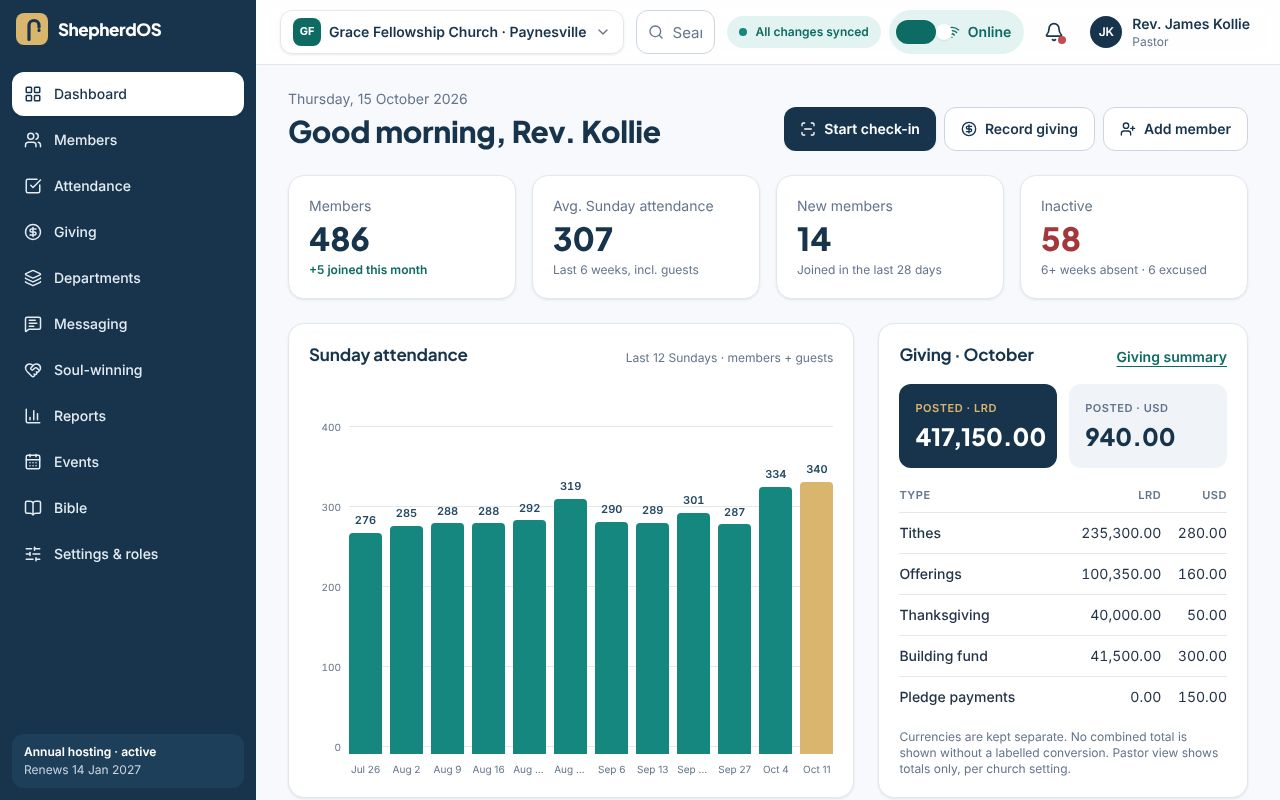
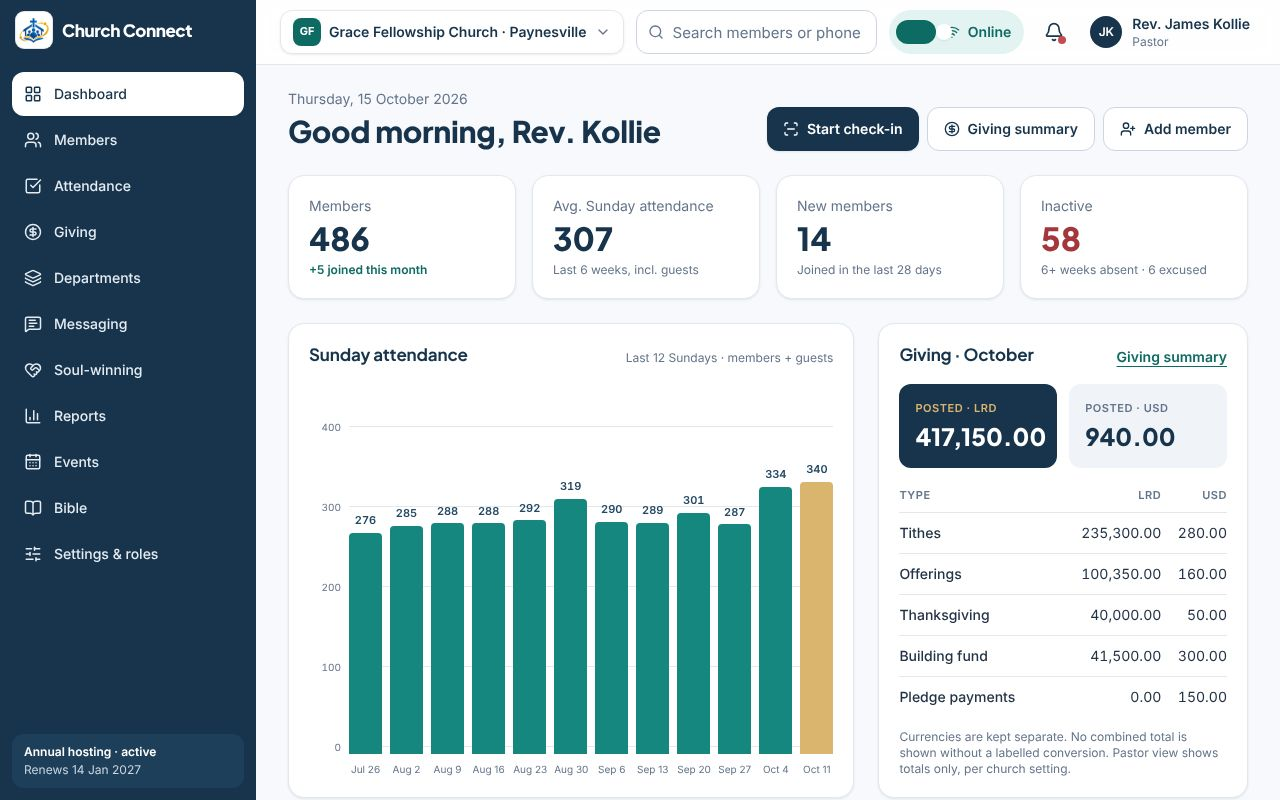
Rebrand to Church Connect and remove demo disclaimers
- New Church Connect logo: mark cut from the supplied artwork with a
  transparent background, shown on a white tile; wordmark "Church Connect"
- Favicon, PWA icons and landing screenshot regenerated from the logo
- Product name updated in titles, metadata and copy
- Removed "fictional data / nothing here is real" statements; the Demo
  badge in the demo bar remains
- Sidebar logo visibility no longer depends on overriding the mark's
  display class

Claude-Session: https://claude.ai/code/session_011i7rtB8z4FdnPw6qqhR6cd

Changed region(s): [[0.5938, 0.125, 0.8438, 0.1875], [0.5625, 0.0, 0.6875, 0.0625], [0.0, 0.0, 0.1562, 0.0625]]

diff --git a/src/components/brand/Logo.tsx b/src/components/brand/Logo.tsx
@@ -1,27 +1,32 @@
 import { cn } from "@/lib/cn";
 
 /**
- * PLACEHOLDER LOGO. This is the only place the brand mark is drawn.
- * To swap in the real logo: replace the <svg> in `LogoMark` (keep the
- * square viewBox), adjust the wordmark if needed, then run
- * `npm run icons` to regenerate the favicon and PWA icons. See README.
+ * Church Connect brand. This is the only place the logo is drawn.
+ * The mark image lives in public/brand/ (cut from the supplied logo with a
+ * transparent background). To change the logo: replace those PNGs, adjust
+ * the wordmark below if needed, then run `npm run icons` to regenerate the
+ * favicon and app icons. See README.
  */
 
-export function LogoMark({ className, title }: { className?: string; title?: string }) {
+export const BRAND_NAME = "Church Connect";
+
+export function LogoMark({ className, title, size = "md" }: { className?: string; title?: string; size?: "md" | "lg" }) {
   return (
-    <svg viewBox="0 0 32 32" className={cn("shrink-0", className)} role={title ? "img" : undefined} aria-hidden={title ? undefined : true} aria-label={title}>
-      <rect width="32" height="32" rx="8" className="fill-gold" />
-      {/* Shepherd's crook */}
-      <path
-        d="M13 26.5V12.5a5 5 0 0 1 10 0v1.75"
-        fill="none"
-        className="stroke-navy"
-        strokeWidth="3.2"
-        strokeLinecap="round"
-        strokeLinejoin="round"
+    <span
+      className={cn("inline-flex shrink-0 items-center justify-center overflow-hidden rounded-lg bg-white ring-1 ring-line", className)}
+      role={title ? "img" : undefined}
+      aria-label={title}
+      aria-hidden={title ? undefined : true}
+    >
+      {/* eslint-disable-next-line @next/next/no-img-element */}
+      <img
+        src={size === "lg" ? "/brand/church-connect-mark.png" : "/brand/church-connect-mark-160.png"}
+        alt=""
+        className="h-[86%] w-[86%] object-contain"
+        width={160}
+        height={160}
       />
-      <circle cx="23" cy="17.4" r="1.6" className="fill-navy" />
-    </svg>
+    </span>
   );
 }
 
@@ -39,14 +44,12 @@ export function Logo({
   markClassName?: string;
   subtitle?: string;
 }) {
-  if (variant === "mark") return <LogoMark className={cn("size-8", markClassName, className)} title="ShepherdOS" />;
+  if (variant === "mark") return <LogoMark className={cn("size-9", markClassName, className)} title={BRAND_NAME} />;
   return (
     <span className={cn("inline-flex items-center gap-2.5", className)}>
-      <LogoMark className={cn("size-8", markClassName)} />
+      <LogoMark className={cn("size-9", markClassName)} />
       <span className="flex flex-col leading-none">
-        <span className={cn("font-heading text-[17px] font-extrabold tracking-tight", tone === "onDark" ? "text-white" : "text-navy")}>
-          ShepherdOS
-        </span>
+        <span className={cn("font-heading text-[17px] font-extrabold tracking-tight", tone === "onDark" ? "text-white" : "text-navy")}>{BRAND_NAME}</span>
         {subtitle && <span className={cn("mt-1 text-[11px] font-medium", tone === "onDark" ? "text-navy-200" : "text-muted")}>{subtitle}</span>}
       </span>
     </span>

diff --git a/src/app/page.tsx b/src/app/page.tsx
@@ -1,11 +1,11 @@
 import type { Metadata } from "next";
 import Link from "next/link";
-import { ArrowRight, Building2, Coins, MessageSquareText, ShieldCheck, WifiOff } from "lucide-react";
+import { ArrowRight, Building2, Coins, MessageSquareText, WifiOff } from "lucide-react";
 import { Logo } from "@/components/brand/Logo";
 import { ButtonLink } from "@/components/ui/Button";
 
 export const metadata: Metadata = {
-  title: { absolute: "ShepherdOS demo: church management for Liberian churches" },
+  title: { absolute: "Church Connect: church management for Liberian churches" },
 };
 
 const POINTS = [
@@ -59,12 +59,6 @@ export default function Landing() {
                 Start the demo
               </ButtonLink>
             </div>
-            <p className="mt-6 flex max-w-md items-start gap-2.5 rounded-xl border border-line bg-white px-4 py-3 text-sm text-ink">
-              <ShieldCheck className="mt-0.5 size-4 shrink-0 text-teal-ink" aria-hidden />
-              <span>
-                <span className="font-semibold text-navy">Demo with fictional data.</span> Nothing you do here is real or shared.
-              </span>
-            </p>
           </div>
           <div className="relative">
             <div className="overflow-hidden rounded-2xl border border-line bg-white shadow-overlay">
@@ -72,7 +66,7 @@ export default function Landing() {
               {/* eslint-disable-next-line @next/next/no-img-element */}
               <img
                 src="/images/dashboard-preview.jpg"
-                alt="ShepherdOS church dashboard showing members, Sunday attendance for the last 12 weeks, and October giving in LRD and USD"
+                alt="Church Connect dashboard showing members, Sunday attendance for the last 12 weeks, and October giving in LRD and USD"
                 width={1280}
                 height={800}
                 fetchPriority="high"
@@ -113,7 +107,7 @@ export default function Landing() {
                 Explore it as a pastor, secretary, treasurer, department head or ComNet operator
               </h2>
               <p className="mt-2 max-w-2xl text-ink">
-                Each role sees a different slice of the same church. Two fictional churches show that their data never mixes.
+                Each role sees a different slice of the same church. Two sample churches show that their data never mixes.
               </p>
             </div>
             <ButtonLink href="/demo/" size="lg" className="shrink-0">
@@ -126,7 +120,7 @@ export default function Landing() {
       <footer className="mx-auto flex max-w-6xl flex-col gap-2 px-4 py-8 text-sm text-muted sm:flex-row sm:justify-between sm:px-6">
         <p>Prepared for EduBridge Technologies and ComNet IT Solutions.</p>
         <p>
-          ShepherdOS is a working name. <Link href="/demo/" className="font-semibold text-teal-ink underline underline-offset-4">Open the demo</Link>
+          <Link href="/demo/" className="font-semibold text-teal-ink underline underline-offset-4">Open the demo</Link>
         </p>
       </footer>
     </div>

diff --git a/src/app/brand-preview/page.tsx b/src/app/brand-preview/page.tsx
@@ -6,13 +6,13 @@ export const metadata: Metadata = { title: "Brand preview", robots: { index: fal
 
 export default function BrandPreview() {
   return (
-    <div className="flex flex-wrap gap-8 bg-white p-8">
+    <div className="flex flex-wrap gap-8 bg-cloud p-8">
       <div id="icon-square" className="size-[512px]">
-        <LogoMark className="size-full" />
+        <LogoMark size="lg" className="size-full rounded-[96px] ring-0" />
       </div>
-      {/* Maskable icon: mark inside the 80% safe zone on a navy field. */}
-      <div id="icon-maskable" className="flex size-[512px] items-center justify-center bg-navy">
-        <LogoMark className="size-[340px]" />
+      {/* Maskable icon: mark inside the 80% safe zone on a white field. */}
+      <div id="icon-maskable" className="flex size-[512px] items-center justify-center bg-white">
+        <LogoMark size="lg" className="size-[380px] rounded-none ring-0" />
       </div>
     </div>
   );

diff --git a/src/app/demo/page.tsx b/src/app/demo/page.tsx
@@ -10,7 +10,7 @@ export default function DemoSignIn() {
   return (
     <div className="min-h-dvh bg-cloud">
       <header className="mx-auto flex h-16 max-w-5xl items-center justify-between px-4 sm:px-6">
-        <Link href="/" aria-label="ShepherdOS demo home">
+        <Link href="/" aria-label="Church Connect home">
           <Logo />
         </Link>
         <Link href="/" className="inline-flex min-h-11 items-center gap-1.5 text-sm font-semibold text-navy hover:underline">
@@ -27,7 +27,7 @@ export default function DemoSignIn() {
         </div>
         <p className="mt-8 flex items-start gap-2.5 text-sm text-muted">
           <ShieldCheck className="mt-0.5 size-4 shrink-0 text-teal-ink" aria-hidden />
-          Demo with fictional data. Nothing you do here is real or shared. Your changes stay in this browser until you reset them.
+          Your changes stay in this browser until you reset them.
         </p>
       </main>
     </div>

diff --git a/src/components/shell/Sidebar.tsx b/src/components/shell/Sidebar.tsx
@@ -38,9 +38,13 @@ export function Sidebar() {
         )}
       >
         <div className={cn("flex h-16 items-center px-4", !expanded && "max-lg:justify-center max-lg:px-0")}>
-          <Link href={churchHref(church.slug, "")} aria-label="ShepherdOS dashboard">
-            <Logo tone="onDark" className={cn(!expanded && "max-lg:hidden")} />
-            <Logo variant="mark" className={cn("hidden", !expanded && "max-lg:block")} />
+          <Link href={churchHref(church.slug, "")} aria-label="Church Connect dashboard">
+            <span className={cn("block", !expanded && "max-lg:hidden")}>
+              <Logo tone="onDark" />
+            </span>
+            <span className={cn("hidden", !expanded && "max-lg:block")}>
+              <Logo variant="mark" />
+            </span>
           </Link>
         </div>
         <nav className="flex-1 overflow-y-auto px-3 py-2">

diff --git a/src/app/layout.tsx b/src/app/layout.tsx
@@ -11,10 +11,10 @@ const jakarta = Plus_Jakarta_Sans({
 });
 
 export const metadata: Metadata = {
-  title: { default: "ShepherdOS demo", template: "%s · ShepherdOS demo" },
+  title: { default: "Church Connect demo", template: "%s · Church Connect" },
   description:
-    "Interactive demo of ShepherdOS, church management for Liberian churches: members, Sunday check-in that works offline, LRD and USD giving, and SMS.",
-  applicationName: "ShepherdOS",
+    "Interactive demo of Church Connect, church management for Liberian churches: members, Sunday check-in that works offline, LRD and USD giving, and SMS.",
+  applicationName: "Church Connect",
   icons: {
     icon: [
       { url: "/icons/favicon-32.png", sizes: "32x32", type: "image/png" },

diff --git a/src/lib/status.ts b/src/lib/status.ts
@@ -47,7 +47,7 @@ export function deriveStatus(
     return { status: "new", detail: `Joined ${joinedDays === 0 ? "today" : `${joinedDays}d ago`}`, last_attended: lastAttended };
   }
   const windowDays = settings.inactive_weeks * 7;
-  // Imported members have no attendance history in ShepherdOS yet. Until they
+  // Imported members have no attendance history in Church Connect yet. Until they
   // have been in the system for a full window, they are not called inactive.
   if (member.imported_at && (!lastAttended || lastAttended < member.imported_at.slice(0, 10))) {
     const sinceImport = differenceInCalendarDays(now, parseISO(member.imported_at));

diff --git a/src/components/shell/AppShell.tsx b/src/components/shell/AppShell.tsx
@@ -61,7 +61,7 @@ function HydratedShell({ slug, children }: { slug: string; children: ReactNode }
           <Logo />
           <h1 className="mt-8 text-3xl font-bold">Choose a role to continue</h1>
           <p className="mt-2 max-w-xl text-muted">
-            This link opens the ShepherdOS demo. Pick who you want to be; you can switch at any time from the bar at the top.
+            This link opens the Church Connect demo. Pick who you want to be; you can switch at any time from the bar at the top.
           </p>
           <div className="mt-8">
             <RolePicker churchSlug={slug} />

diff --git a/src/components/shell/DemoBar.tsx b/src/components/shell/DemoBar.tsx
@@ -46,7 +46,6 @@ export function DemoBar({ churchSlug }: { churchSlug: string | null }) {
     <>
       <div className="sticky top-0 z-30 flex h-11 items-center gap-2 bg-navy-950 px-2 text-sm text-white sm:px-4">
         <span className="hidden rounded-md bg-gold px-2 py-0.5 text-xs font-bold text-navy sm:inline">Demo</span>
-        <span className="hidden text-navy-200 lg:inline">Fictional data. Nothing here is real or shared.</span>
         <Popover
           label="Switch demo role"
           className="min-w-0 lg:ml-4"

diff --git a/src/features/platform/PlatformConsole.tsx b/src/features/platform/PlatformConsole.tsx
@@ -479,7 +479,7 @@ function SubscriptionsTab() {
     <div className="flex flex-col gap-6">
       <div>
         <h1 className="text-3xl font-extrabold">Subscriptions</h1>
-        <p className="mt-1 text-sm text-muted">Annual hosting is USD 850 per church. Billing is tracked here; payments are handled outside ShepherdOS.</p>
+        <p className="mt-1 text-sm text-muted">Annual hosting is USD 850 per church. Billing is tracked here; payments are handled outside Church Connect.</p>
       </div>
       <Card>
         <Table>

diff --git a/src/components/ui/Toast.tsx b/src/components/ui/Toast.tsx
@@ -35,7 +35,7 @@ export function toast(title: string, opts: { body?: string; tone?: Tone; action?
 export function fullVersionToast(feature?: string) {
   toast("Available in the full version", {
     tone: "info",
-    body: feature ? `${feature} is part of the full ShepherdOS build, not this demo.` : "This part is not included in the demo.",
+    body: feature ? `${feature} is part of the full Church Connect build, not this demo.` : "This part is not included in the demo.",
   });
 }
 

diff --git a/src/mock/names.ts b/src/mock/names.ts
@@ -1,4 +1,4 @@
-/** Realistic Liberian names for fictional demo members. */
+/** Realistic Liberian names for demo members. */
 
 export const SURNAMES_COMMON = [
   "Kollie", "Flomo", "Sumo", "Kpoto", "Tarr", "Kamara", "Doe", "Toe", "Wleh", "Gono",
